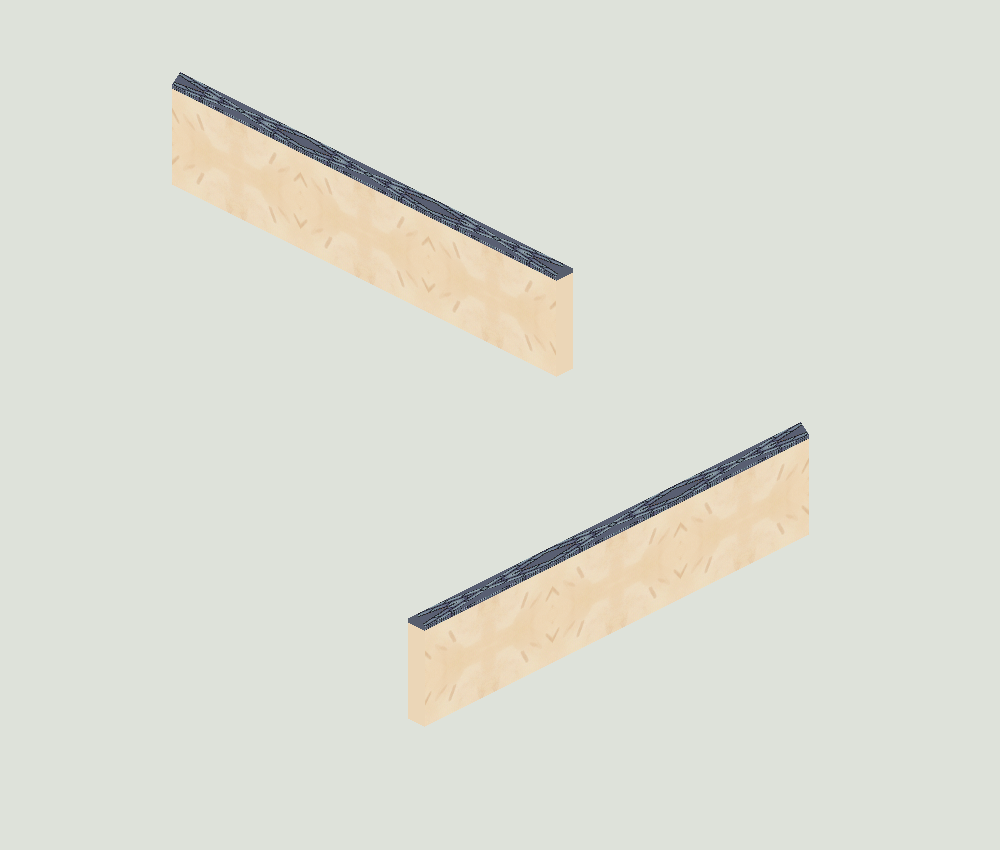
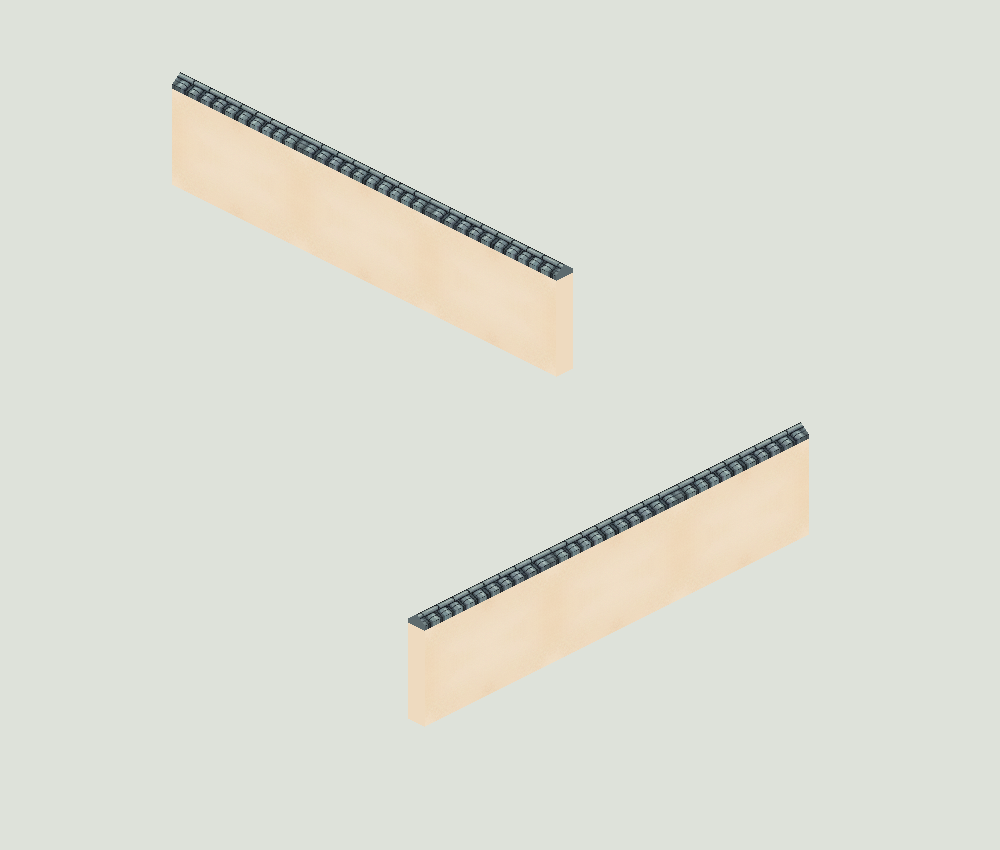
Preserve roof tile structure when sampling regenerated wall materials

Changed region(s): [[0.403, 0.4894, 0.806, 0.7341], [0.155, 0.0918, 0.558, 0.3365]]

diff --git a/pipeline/wall_assets.py b/pipeline/wall_assets.py
@@ -102,6 +102,40 @@ def process(original,axis):
     return sprite,report
 
 
+def cap_texture(sprite,bbox):
+    """Rectify the sloping roof band before mapping it onto either wall axis."""
+    rgb=np.asarray(sprite.convert('RGB'));alpha=np.asarray(sprite.getchannel('A'))
+    neutral=(rgb.max(axis=2)-rgb.min(axis=2)<65)&(rgb.mean(axis=2)<175)&(alpha>240)
+    x0,y0,x1,y1=bbox;w,h=x1-x0,y1-y0
+    samples=[]
+    for x in range(round(x0+.15*w),round(x0+.80*w)):
+        rows=np.flatnonzero(neutral[:,x])
+        if not len(rows):continue
+        top=rows[0];band=rows[rows<=top+max(8,round(.17*h))]
+        if len(band)>3:samples.append((x,top,band[-1]))
+    if len(samples)<20:raise ValueError('瓦顶区域不足，无法保留瓦片结构')
+    points=np.asarray(samples)
+    upper=np.polyfit(points[:,0],points[:,1],1);lower=np.polyfit(points[:,0],points[:,2],1)
+    xx=np.linspace(points[0,0],points[-1,0],256)[None,:]
+    top=np.polyval(upper,xx)+2;bottom=np.polyval(lower,xx)-2
+    if np.any(bottom-top<2):raise ValueError('瓦顶区域过薄，不能提取材质')
+    # Leave out the fascia/plaster border below the tiles. Surface UV runs
+    # from the eave toward the ridge, opposite to image Y.
+    v=np.linspace(.80,.02,256)[:,None]
+    # The roof cross-section also shifts horizontally in 2:1 projection.
+    # Undo that shear so individual tiles retain their shape across the slope.
+    shift=np.sign(upper[0])*.5*(bottom-top)*(1-v)
+    yy=top+upper[0]*shift+(bottom-top)*v
+    sample_x=xx+shift
+    texture=rgb[np.clip(np.rint(yy).astype(int),0,sprite.height-1),np.clip(np.rint(sample_x).astype(int),0,sprite.width-1)].copy()
+    # Only the longitudinal direction repeats; ridge and eave stay distinct.
+    edge=(texture[:,0].astype(float)+texture[:,-1].astype(float))/2
+    for i in range(12):
+        weight=i/12
+        for column in (i,255-i):texture[:,column]=np.rint(edge*(1-weight)+texture[:,column]*weight).astype(np.uint8)
+    return Image.fromarray(texture)
+
+
 def material_textures(original):
     """Sample appearance only. Provider silhouette is never used as geometry."""
     from static_props import cutout
@@ -111,13 +145,13 @@ def material_textures(original):
     if not bbox:raise ValueError('原图没有可提取的墙体材质')
     x0,y0,x1,y1=bbox;w,h=x1-x0,y1-y0
     result={}
-    # Conservative interior swatches of the visible plaster and cap. Missing
-    # pixels use the swatch median, never background color. Both axes share them.
-    for role,rect in [('plaster',(.28,.49,.60,.69)),('cap',(.10,.08,.58,.25))]:
+    result['cap']=cap_texture(sprite,bbox)
+    # Conservative interior plaster swatch. Missing pixels use the median,
+    # never background color. Both axes share the same textures.
+    for role,rect in [('plaster',(.28,.49,.60,.69))]:
         box=(round(x0+rect[0]*w),round(y0+rect[1]*h),round(x0+rect[2]*w),round(y0+rect[3]*h))
         patch=sprite.crop(box);rgb=np.array(patch.convert('RGB'));valid=np.array(patch.getchannel('A'))>240
-        if role=='cap':valid&=(rgb.max(axis=2)-rgb.min(axis=2)<65)&(rgb.mean(axis=2)<175)
-        else:valid&=(rgb.mean(axis=2)>100)
+        valid&=(rgb.mean(axis=2)>100)
         if valid.sum()<20:raise ValueError('缺少可用的'+role+'材质采样，不能编译院墙')
         median=np.median(rgb[valid],axis=0).astype(np.uint8);rgb[~valid]=median
         texture=Image.fromarray(rgb).resize((128,128),Image.Resampling.LANCZOS).filter(ImageFilter.GaussianBlur(.6))
@@ -148,6 +182,9 @@ def compile_surfaces(textures,axis):
         yy,xx=np.indices((CANVAS[1],CANVAS[0]),dtype=float);dx=(xx-p0[0]).ravel();dy=(yy-p0[1]).ravel()
         uv=np.stack([inv[0,0]*dx+inv[0,1]*dy,inv[1,0]*dx+inv[1,1]*dy])
         texture=np.asarray(textures['plaster' if index==0 else 'cap'])
+        if index==1:
+            # A thin fascia cannot carry the whole roof pattern a second time.
+            texture=np.broadcast_to(texture[:24].mean(axis=0).astype(np.uint8)[None,:,:],texture.shape)
         tx=np.clip(np.rint(uv[0]*255).astype(int),0,255);ty=np.clip(np.rint(uv[1]*255).astype(int),0,255)
         layer=Image.fromarray(texture[ty,tx].reshape((512,512,3)))
         coverage=Image.new('L',CANVAS);ImageDraw.Draw(coverage).polygon(vertices,fill=255)

diff --git a/pipeline/tests/test_wall_assets.py b/pipeline/tests/test_wall_assets.py
@@ -90,10 +90,24 @@ class WallAssets(unittest.TestCase):
             sprite=walls.compile_surfaces(textures,axis)
             self.assertTrue(np.array_equal(np.asarray(sprite.getchannel('A'))>0,np.asarray(walls.mask(axis))>0))
             self.assertEqual(sprite.size,(512,512))
-        for texture in textures.values():
+        for role,texture in textures.items():
             pixels=np.asarray(texture)
             self.assertTrue(np.array_equal(pixels[:,0],pixels[:,-1]))
-            self.assertTrue(np.array_equal(pixels[0],pixels[-1]))
+            if role=='plaster':self.assertTrue(np.array_equal(pixels[0],pixels[-1]))
+
+    def test_roof_sampling_straightens_tiles_instead_of_sampling_a_diagonal_crop(self):
+        import numpy as np
+        from PIL import ImageDraw
+        from build_courtyard_wall_templates import point,project,ANCHOR
+        image=fixture('a');draw=ImageDraw.Draw(image)
+        draw.bitmap((0,0),walls.mask('a'),fill=(230,220,200))
+        for t in range(0,128,16):
+            vertices=[point('a',t,8,100),point('a',t+16,8,100),point('a',t+16,0,108),point('a',t,0,108)]
+            color=80 if t%32==0 else 145
+            draw.polygon([(project(p)[0]+ANCHOR[0],project(p)[1]+ANCHOR[1]) for p in vertices],fill=(color,color,color))
+        texture=np.asarray(walls.material_textures(image)['cap']).astype(float)
+        self.assertLess(np.abs(texture[20]-texture[-20]).mean(),15)
+        self.assertGreater(texture[128,:,0].std(),15)
 
     def test_project_template_binding_is_explicit_and_used_by_production(self):
         p=projects.change(self.root,dict(action='create',title='院墙',baseline=dict(style='hand painted')))

diff --git a/docs/courtyard-wall-templates.md b/docs/courtyard-wall-templates.md
@@ -19,13 +19,15 @@
 
 当前方案保留这张原图，提取墙面与灰瓦材质，将采样镜像为周期纹理，投射到确定的墙面、瓦沿和墙帽结构。两轴使用同一张来源图，第二轴复用已校验的图片和回执，无需再次请求图片服务。原始轮廓检查结果仍保存在素材包中；固定结构通过不代表 AI 原图通过。
 
+第二轮根据外观反馈重新调用图片服务生成原图：干净暖灰白抹面、克制颗粒、清晰灰蓝瓦片，减少短线笔触。同时修正瓦顶提取：按斜向屋面整平采样并校正横向偏移，保留瓦片结构，仅沿墙长方向处理纹理边缘；瓦沿不再重复压缩整个屋面图案。两轴共用这次新生成的材质。该提取方法目前针对 A 轴来源图，B 轴从同一来源投射。
+
 项目绑定 `wall_axis` 后，项目页和物件工作台都通过服务端继承相同制作规则。同一项目、同一基准版本下复用最近完成的院墙材质。项目基准改变后重新制作材质。
 
 ## 摆放验证
 
 素材包包含 `wall_connectors`，定义相对锚点的 start/end 和重复偏移。模块场景在开启吸附时，对同轴、同尺度墙体提供接头吸附；放置与拖动均可使用。关闭吸附后自由摆放。A/B 交汇不作转角吸附，也不应视为已解决的墙角。
 
-`material-repeat-check.png` 展示实际产出各重复三段的效果，两轴分开展示，避免把直墙相交误认为可用转角。材质目前是结构验证样稿，能看到重复的笔触，瓦顶细节与厚度方向光照还需完善。
+`material-repeat-check.png` 展示第二轮实际产出各重复三段的效果，两轴分开展示，避免把直墙相交误认为可用转角。材质仍是结构验证样稿，墙面色差存在重复，厚度方向光照还需完善。
 
 已检查：两轴各两个接缝共 28 个截面顶点的平移关系；编译结果透明轮廓；材质相对边像素一致；真实浏览器画布点击及拖动吸附到非网格接头；保存并刷新后位置一致。碰撞区域使用固定墙脚投影，尚未运行人物通行与长墙遮挡验证，不能认定整套院落已完成。
 
